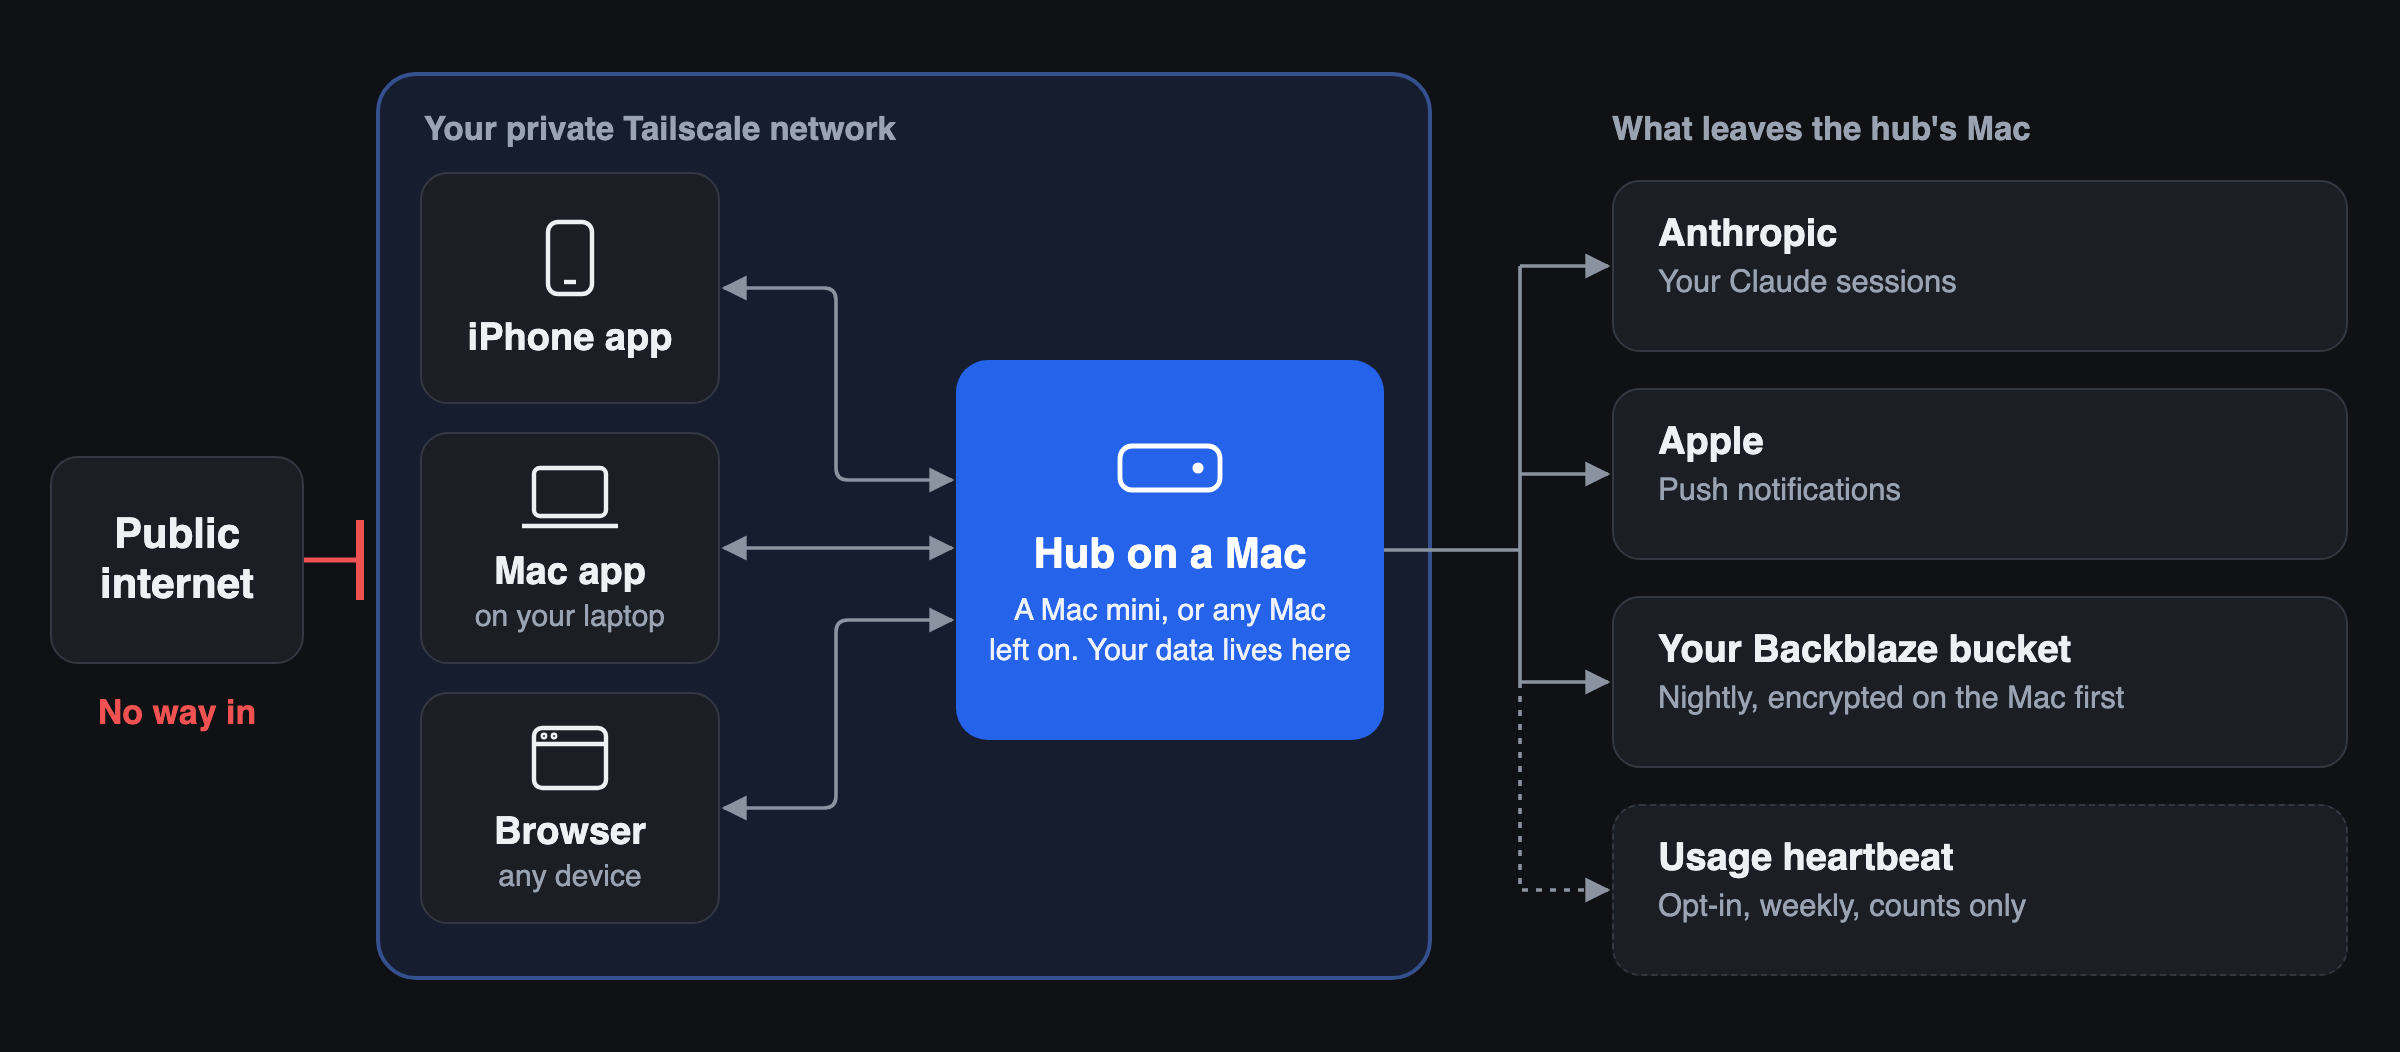
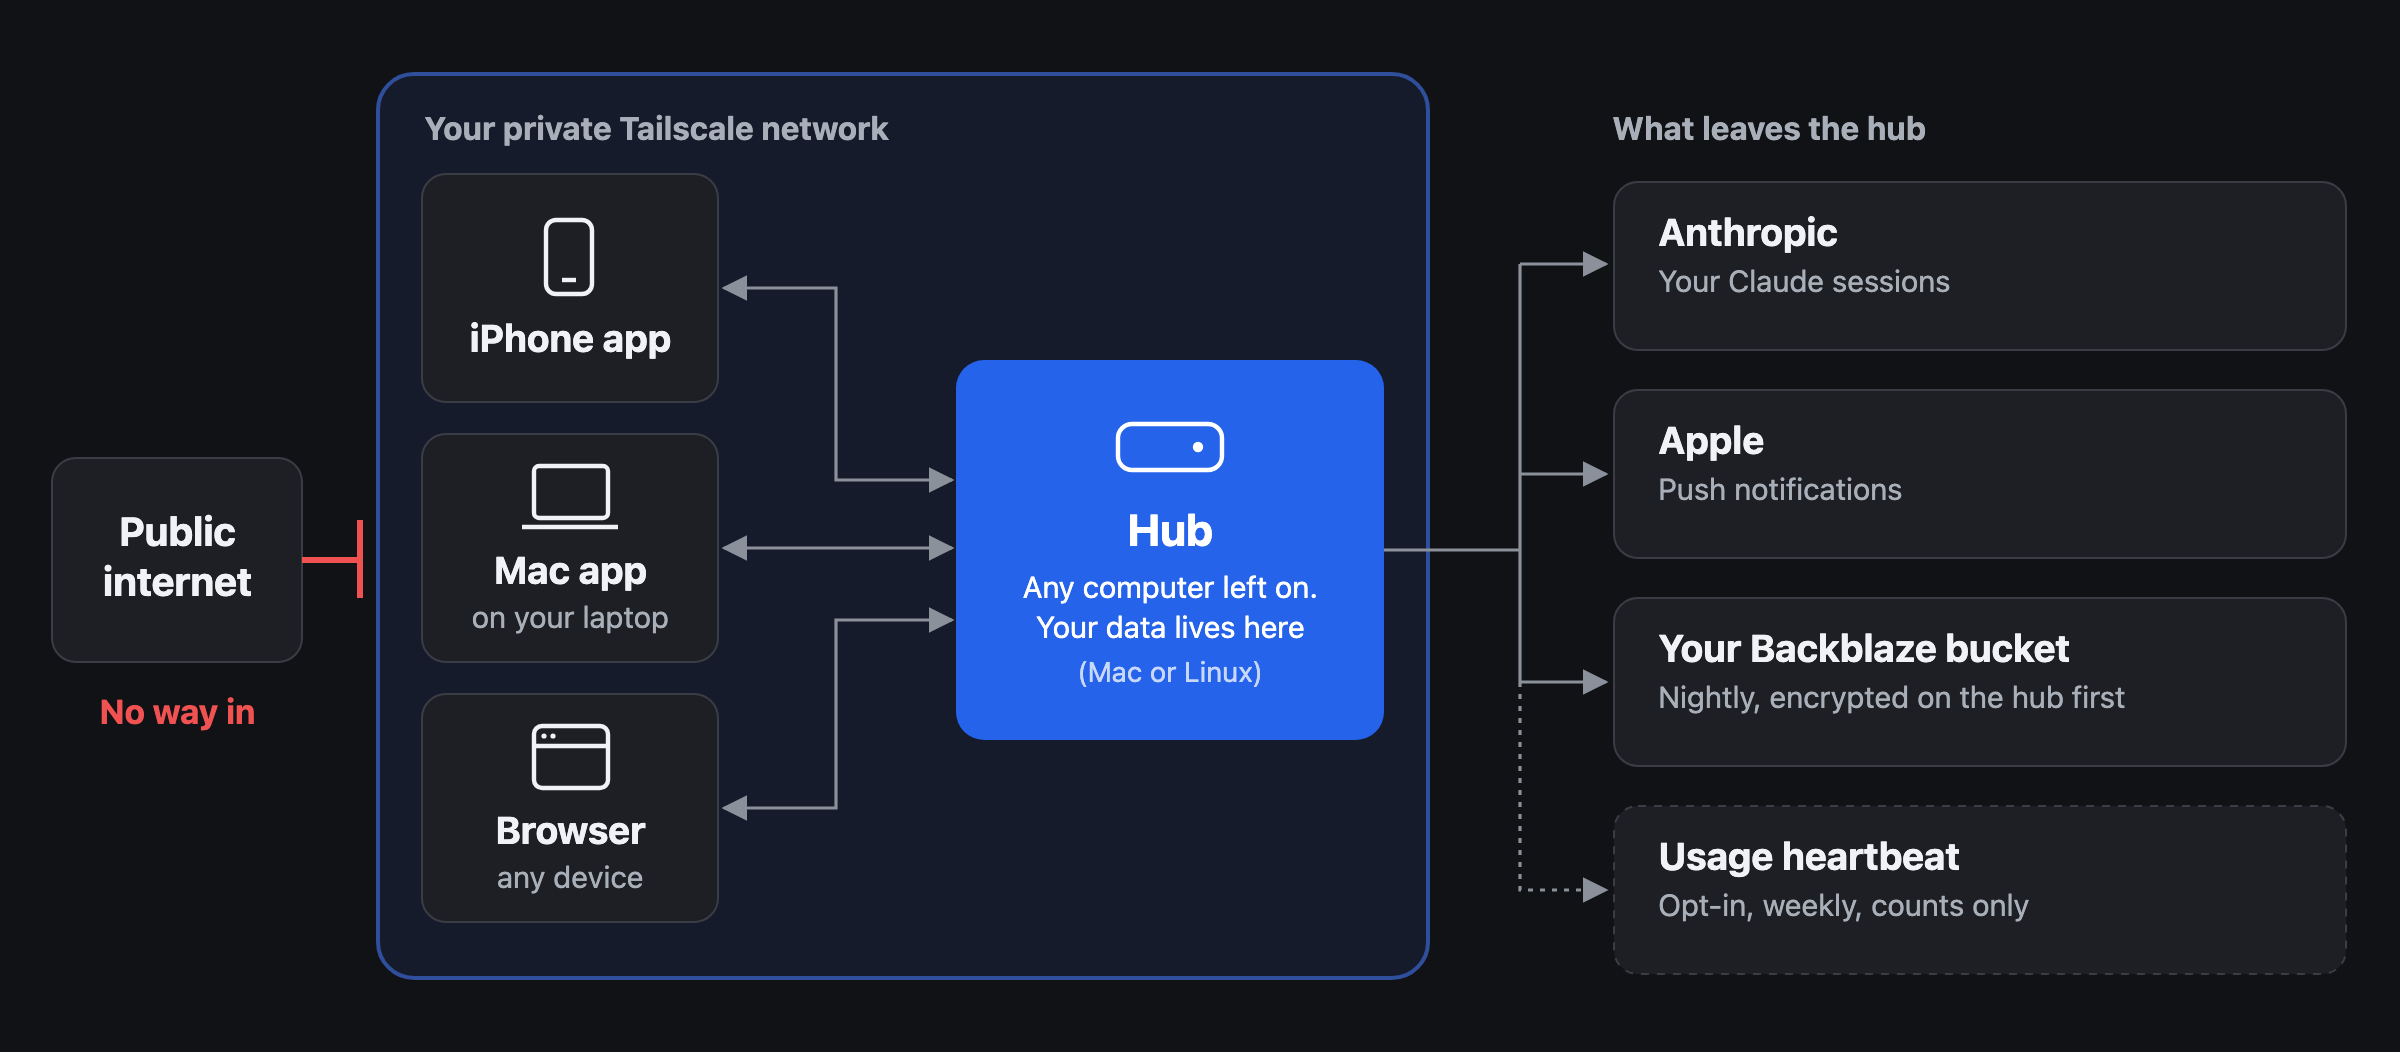
Security figure: Hub (Mac, Linux) (#245)
* Security figure: Hub (Mac, Linux): docs/img/security.png

* Security figure: Hub (Mac, Linux): docs/img/security-dark.png

* Security figure: Hub (Mac, Linux): README.md

* Security figure: the hub runs on Mac or Linux: docs/img/security.png

* Security figure: the hub runs on Mac or Linux: docs/img/security-dark.png

diff --git a/README.md b/README.md
@@ -157,7 +157,7 @@ The agent follows [SETUP.md](SETUP.md). Here is the timeline.
 Your data lives on your Mac. The hub listens only on your private
 [Tailscale](https://tailscale.com) network, so nothing about it is public.
 
-<p align="center"><picture><source media="(prefers-color-scheme: dark)" srcset="docs/img/security-dark.png"><img src="docs/img/security.png" alt="Security diagram for life: the iPhone app, the Mac app on your laptop and any browser talk to the hub on a Mac you leave on, such as a Mac mini, inside your private Tailscale network, where your data lives. Only four things leave the hub's Mac: Claude sessions to Anthropic, push notifications to Apple, nightly backups encrypted on the Mac first to your Backblaze bucket, and an opt-in weekly usage heartbeat with counts only. The public internet has no way in." width="900"></picture></p>
+<p align="center"><picture><source media="(prefers-color-scheme: dark)" srcset="docs/img/security-dark.png"><img src="docs/img/security.png" alt="Security diagram for life: the iPhone app, the Mac app on your laptop and any browser talk to the hub, a Mac or Linux computer you leave on, inside your private Tailscale network, where your data lives. Only four things leave the hub: Claude sessions to Anthropic, push notifications to Apple, nightly backups encrypted on the hub first to your Backblaze bucket, and an opt-in weekly usage heartbeat with counts only. The public internet has no way in." width="900"></picture></p>
 
 - **Nothing public.** No open ports, no public URL. Your phone reaches the
   hub through Tailscale.
